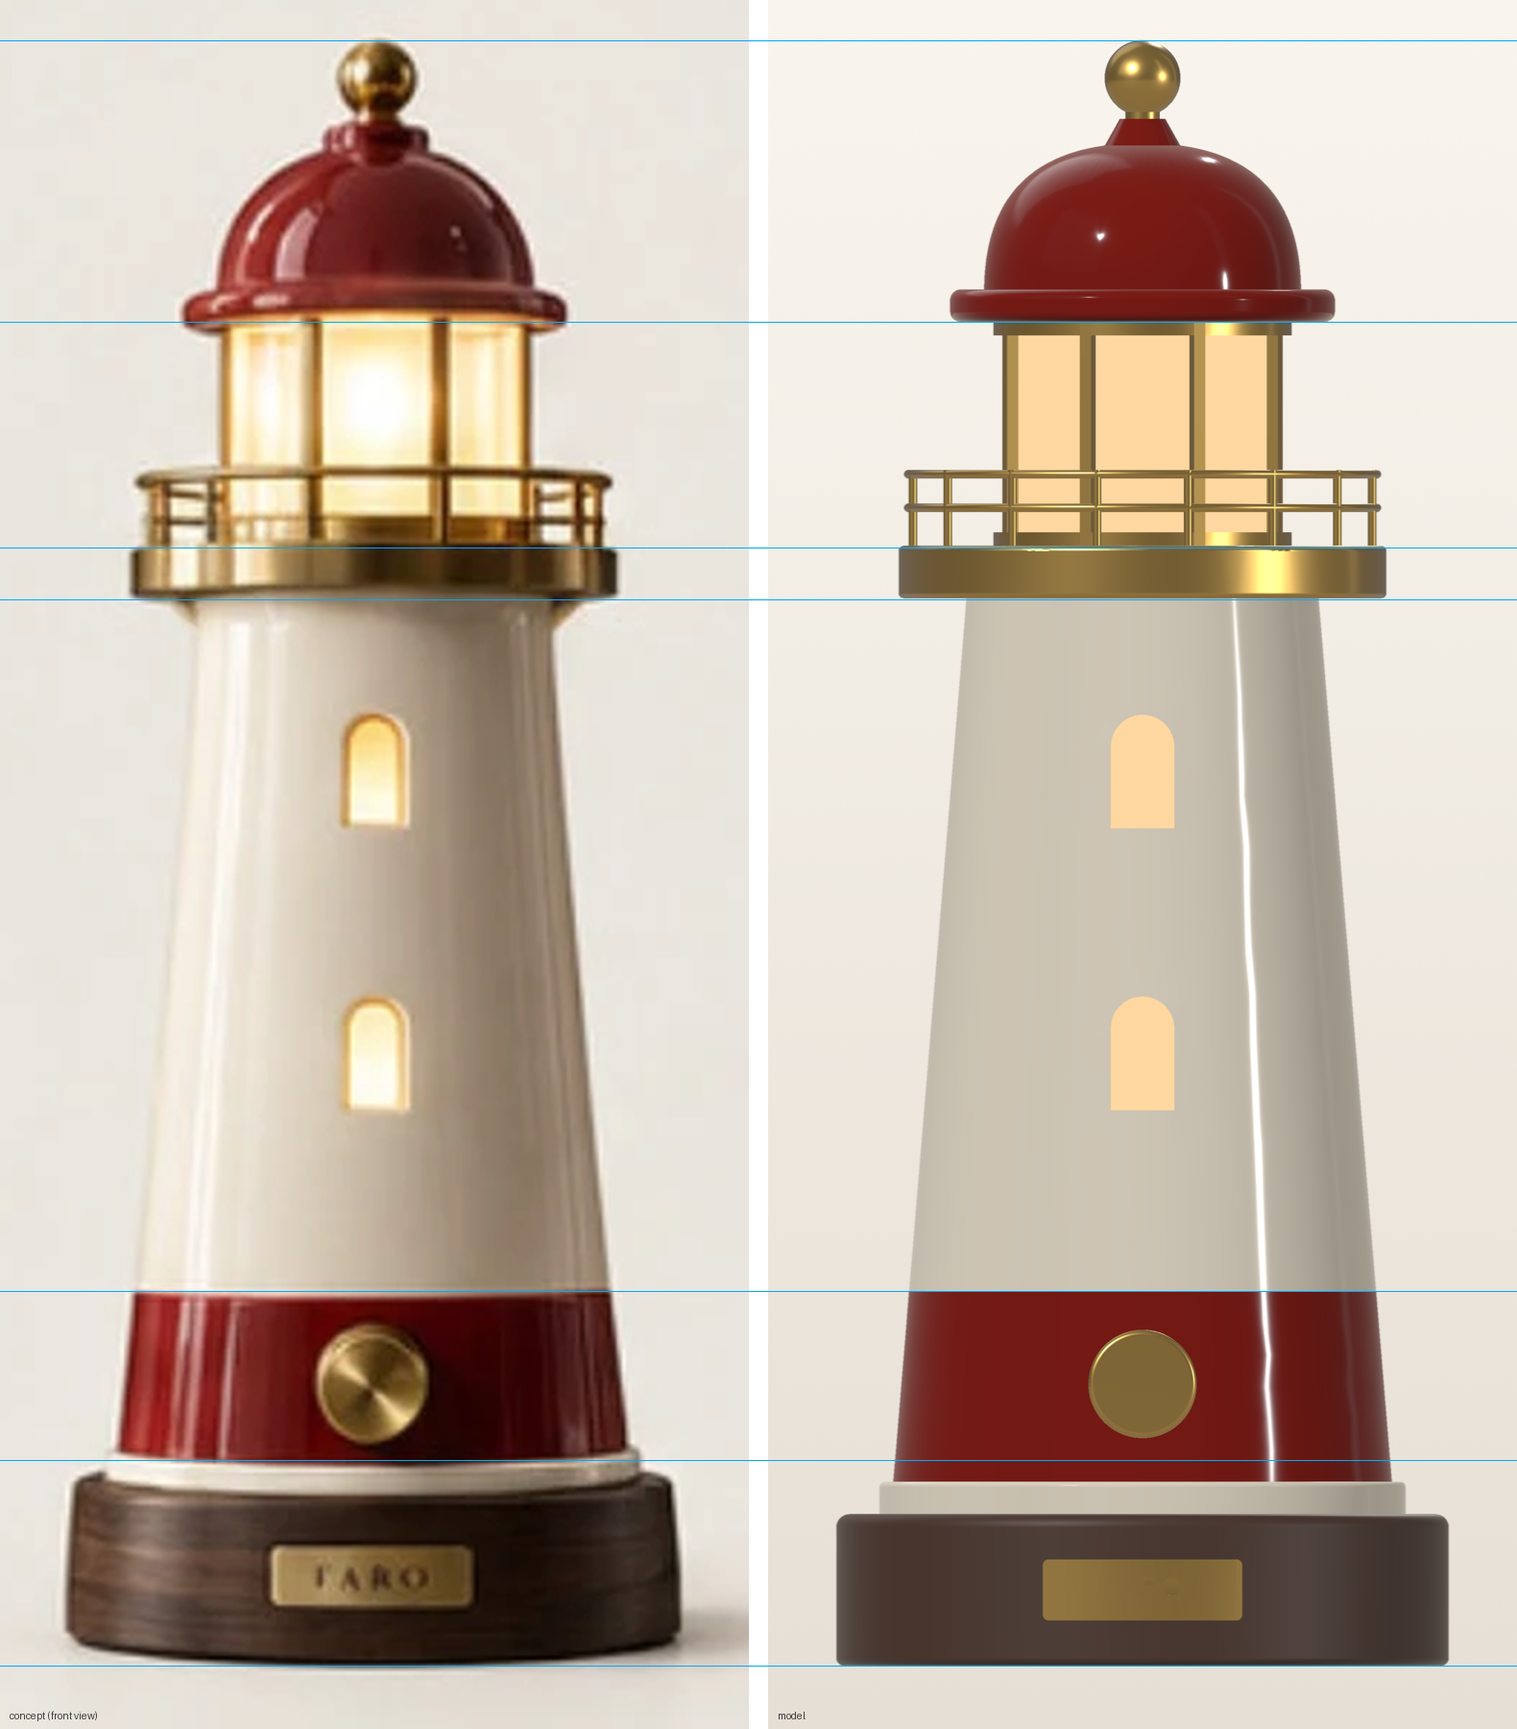
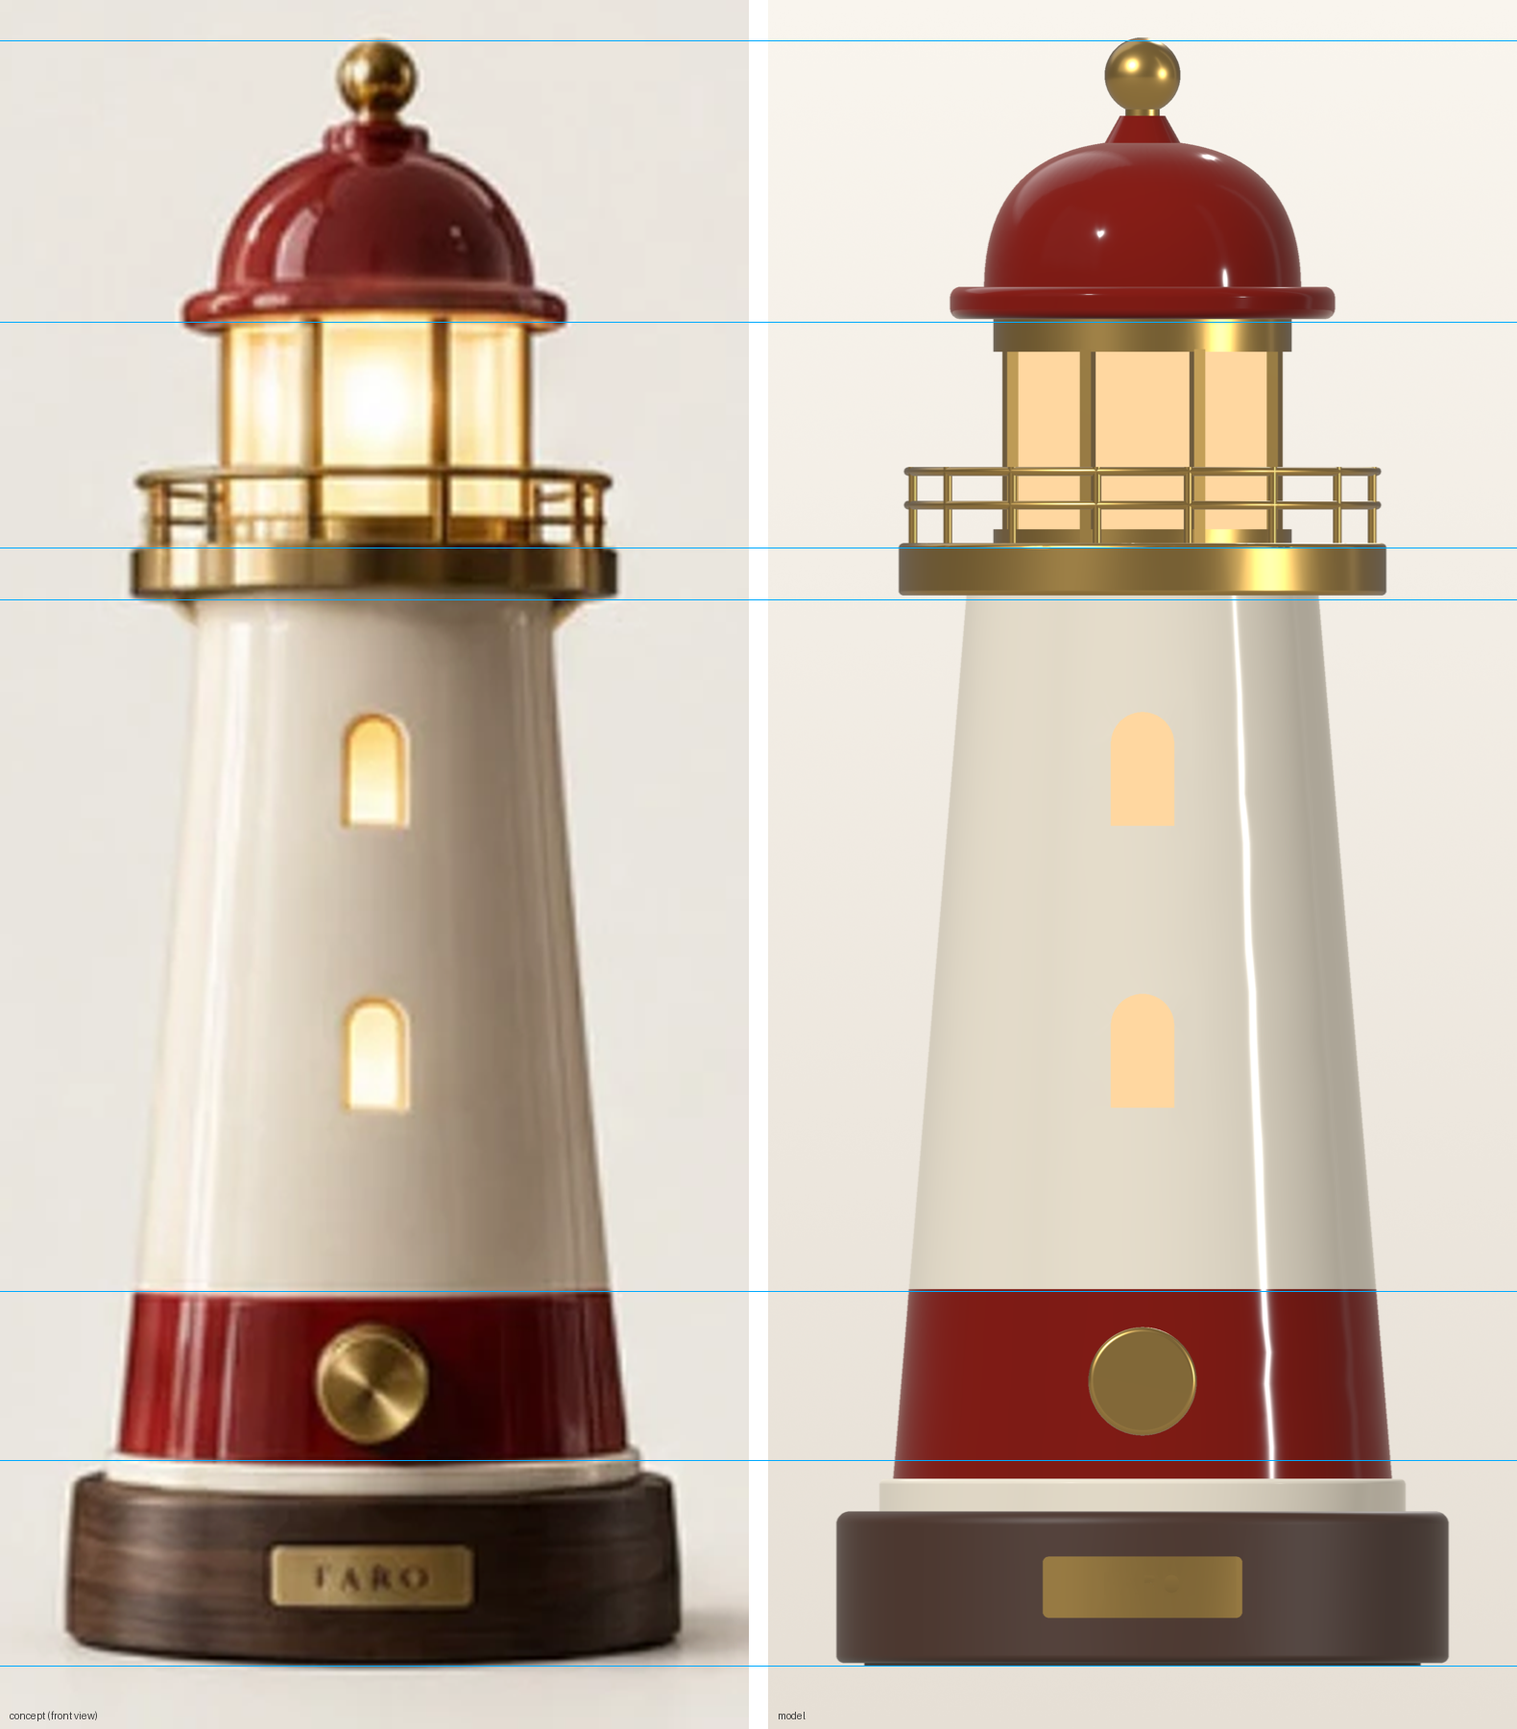
Faro: warm cream matched to the concept; replaceable battery; twist-lock cap
- Cream #F9F2E1 with a slightly brighter Faro studio (LIGHT_GAIN), measured
  against the concept's lit tower (within 1-3 levels per channel)
- Base is an open walnut ring with a flush bottom plate held by 4 M3
  countersunk screws into bosses (threaded inserts); a felt pad on a thin
  steel disc covers them, held by 4 magnets so it lifts off repeatedly.
  Battery rests on the plate, clear of the bosses; wire hole up the tower
- Cap is a 4-lug bayonet: lugs on a spigot pass slots in a lip in the
  lantern's top band, turn 20 deg to a stop. Fit checks: no clash locked,
  lugs pass at entry, 1.6 mm under the lip, 49 mm LED access opening
- Underside render (felt on / felt off)

Claude-Session: https://claude.ai/code/session_01Qkpg3hSMGJCCsE2jenCZsk

diff --git a/faro/lamp.py b/faro/lamp.py
@@ -25,6 +25,7 @@ from build123d import (
     Plane,
     Pos,
     RectangleRounded,
+    RegularPolygon,
     Rectangle,
     Rot,
     SlotOverall,
@@ -92,8 +93,59 @@ def build(p) -> Lamp:
     base = Cylinder(rb, hb, align=MIN)
     base = _safe_fillet(base, base.edges().filter_by(GeomType.CIRCLE).sort_by(Axis.Z)[-1:], p.BASE_TOP_ROUND)
     base = _safe_fillet(base, base.edges().filter_by(GeomType.CIRCLE).sort_by(Axis.Z)[:1], p.BASE_BOTTOM_ROUND)
-    cavity = Pos(0, 0, p.BASE_FLOOR) * Cylinder(rb - p.BASE_WALL, hb - p.BASE_FLOOR - p.BASE_WALL, align=MIN)
-    base = base - cavity
+    # open ring: a rebate at the bottom for the plate, the battery bay above it,
+    # and a hole through the top for the wires up the tower
+    pt = p.PLATE_THICK
+    r_reb = rb - p.PLATE_REBATE
+    r_cav = rb - p.BASE_WALL
+    z_cav_top = hb - p.BASE_WALL
+    base = base - Pos(0, 0, -1) * Cylinder(r_reb, pt + 1, align=MIN)
+    base = base - Pos(0, 0, pt - 0.01) * Cylinder(r_cav, z_cav_top - pt + 0.01, align=MIN)
+    base = base - Pos(0, 0, z_cav_top - 1) * Cylinder(p.BASE_WIRE_HOLE / 2, p.BASE_WALL + 2, align=MIN)
+    # screw bosses hanging from the top of the bay, with holes for M3 inserts
+    screw_xy = []
+    for k in range(p.SCREWS):
+        d = _dir(p.SCREW_ANGLE0 + k * 360 / p.SCREWS)
+        x, y = d.X * p.SCREW_R, d.Y * p.SCREW_R
+        screw_xy.append((x, y))
+        base = base + Pos(x, y, pt) * Cylinder(p.BOSS_DIA / 2, z_cav_top - pt + 0.5, align=MIN)
+        base = base - Pos(x, y, pt - 0.01) * Cylinder(p.BOSS_PILOT_DIA / 2, 10.0, align=MIN)
+
+    # bottom plate: flush in the rebate, 4 countersunk screws, 4 magnet pockets,
+    # and a shallow recess underneath for the felt pad
+    rp = r_reb - p.PLATE_CLEAR
+    plate_b = Cylinder(rp, pt, align=MIN)
+    r_felt = rp - p.FELT_INSET
+    plate_b = plate_b - Pos(0, 0, -1) * Cylinder(r_felt + 0.3, p.FELT_RECESS + 1, align=MIN)
+    z_f = p.FELT_RECESS                                   # recess floor
+    screws = None
+    for x, y in screw_xy:
+        plate_b = plate_b - Pos(x, y, -1) * Cylinder(p.SCREW_CLEAR_DIA / 2, pt + 2, align=MIN)
+        cs = (p.SCREW_HEAD_DIA - p.SCREW_CLEAR_DIA) / 2          # 90 deg countersink depth
+        sink = Pos(x, y, z_f - 0.01) * _revolve([(0, 0), (p.SCREW_HEAD_DIA / 2, 0),
+                                                 (p.SCREW_CLEAR_DIA / 2, cs), (0, cs)])
+        plate_b = plate_b - sink
+        head = Pos(x, y, z_f + 0.05) * _revolve([(0, 0), (p.SCREW_HEAD_DIA / 2 - 0.1, 0),
+                                                 (p.SCREW_CLEAR_DIA / 2 - 0.2, cs - 0.1), (0, cs - 0.1)])
+        shank = Pos(x, y, z_f + cs - 0.2) * Cylinder(1.5, 8.0, align=MIN)
+        head = head - Pos(x, y, z_f - 0.5) * extrude(RegularPolygon(1.0 / math.cos(math.pi / 6), 6), amount=1.8)
+        screws = head + shank if screws is None else screws + head + shank
+    mags = None
+    for k in range(p.MAGNETS):
+        d = _dir(p.SCREW_ANGLE0 + (k + 0.5) * 360 / p.MAGNETS)
+        x, y = d.X * p.SCREW_R, d.Y * p.SCREW_R
+        plate_b = plate_b - Pos(x, y, z_f - 0.01) * Cylinder(p.MAGNET_DIA / 2 + 0.1, p.MAGNET_THICK + 0.1, align=MIN)
+        mg = Pos(x, y, z_f) * Cylinder(p.MAGNET_DIA / 2, p.MAGNET_THICK, align=MIN)
+        mags = mg if mags is None else mags + mg
+    m.parts["base_plate"] = _one(plate_b)
+    felt = Pos(0, 0, z_f - p.FELT_THICK) * Cylinder(r_felt, p.FELT_THICK, align=MIN)
+    m.parts["felt_pad"] = felt
+    m.envelopes["screws"] = screws
+    m.envelopes["magnets"] = mags
+    lift = p.FELT_THICK - p.FELT_RECESS                   # the felt stands proud; it's the foot
+    I.update(felt_proud=lift, battery_bay=(2 * r_cav, z_cav_top - pt),
+             plate_dia=2 * rp, felt_dia=2 * r_felt)
+
     # nameplate: a curved brass plate in a shallow recess on the front
     zn = z_(p.NAMEPLATE_Z)
     plate_outline = Pos(0, 0, zn) * _front_prism(RectangleRounded(p.NAMEPLATE_W, p.NAMEPLATE_H, 1.2))
@@ -115,7 +167,13 @@ def build(p) -> Lamp:
     m.envelopes["usb_receptacle"] = Pos(0, rb - p.BASE_WALL - 4.0, p.USBC_Z) * Box(
         9.5, 7.5, 3.6, align=(Align.CENTER, Align.MIN, Align.CENTER))
     bl, bw, bt = p.BATTERY_SIZE
-    m.envelopes["battery"] = Pos(0, -4, p.BASE_FLOOR + 0.5) * Box(bl, bw, bt, align=MIN)
+    m.envelopes["battery"] = Pos(0, -4, pt + 0.5) * Box(bl, bw, bt, align=MIN)
+    # the battery must fit the bay, clear the bosses, and come out past them
+    bat = m.envelopes["battery"]
+    I["battery_clear"] = dict(bay_height_margin=z_cav_top - pt - 0.5 - bt,
+                              boss_clash=sum((bat & (Pos(x, y, 0) * Cylinder(p.BOSS_DIA / 2, hb, align=MIN))).volume
+                                             if (bat & (Pos(x, y, 0) * Cylinder(p.BOSS_DIA / 2, hb, align=MIN))) is not None
+                                             else 0.0 for x, y in screw_xy))
     m.parts["base"] = _one(base)
     m.parts["nameplate"] = plate
     I.update(base_dia=2 * rb, base_h=hb)
@@ -193,18 +251,35 @@ def build(p) -> Lamp:
     # ---- 5. lantern: brass frame + frosted glass ----------------------------
     z_l0, z_l1 = z_g1, z_(p.LANTERN_TOP_Z)
     hr = p.LANTERN_RING_H
-    ring = lambda za: Pos(0, 0, za) * (Cylinder(rl, hr, align=MIN) - Cylinder(rl - 3.0, hr + 1, align=MIN))
-    frame = ring(z_l0) + ring(z_l1 - hr)
+    tb, lip = p.TOP_BAND_H, p.LIP_H
+    r_lip = rl - 3.0                                   # lip inner radius (the opening under the cap)
+    z_tb = z_l1 - tb                                   # bottom of the top band
+    ann = lambda ro, ri, za, h: Pos(0, 0, za) * (Cylinder(ro, h, align=MIN) - Cylinder(ri, h + 2, align=MIN))
+    frame = ann(rl, rl - 3.0, z_l0, hr)                               # bottom ring
+    frame = frame + ann(rl, p.GROOVE_R, z_tb, tb)                     # top band: outer skin...
+    frame = frame + ann(p.GROOVE_R + 0.01, r_lip, z_l1 - lip, lip)    # ...and the bayonet lip
+    # entry slots through the lip, midway between mullions, and a stop under the
+    # lip LOCK_TURN_DEG further round (the lug turns until it hits it)
+    lug_half = math.degrees(p.LOCK_LUG_W / 2 / r_lip)
+    slot_w = p.LOCK_LUG_W + 2 * p.FIT_CLEAR
+    for k in range(p.LOCK_LUGS):
+        a0 = k * 360 / p.LOCK_LUGS
+        frame = frame - Rot(0, 0, a0) * Pos(0, -(p.GROOVE_R + r_lip) / 2, z_l1 - lip - 0.5) * Box(
+            slot_w, p.GROOVE_R - r_lip + 0.4, lip + 1.0, align=MIN)
+        a_stop = a0 + p.LOCK_TURN_DEG + lug_half + math.degrees(1.0 / r_lip)
+        frame = frame + Rot(0, 0, a_stop) * Pos(0, -(p.GROOVE_R + r_lip) / 2, z_tb) * Box(
+            1.5, p.GROOVE_R - r_lip + 0.2, tb - lip + 0.2, align=MIN)
     for k in range(p.MULLIONS):
         ang = (k + 0.5) * 360 / p.MULLIONS            # a panel (not a mullion) faces the front
         frame = frame + Rot(0, 0, ang) * Pos(0, -(rl - p.MULLION_DEPTH / 2), z_l0) * Box(
-            p.MULLION_W, p.MULLION_DEPTH, z_l1 - z_l0, align=MIN)
+            p.MULLION_W, p.MULLION_DEPTH, z_tb - z_l0 + 0.5, align=MIN)
     m.parts["lantern_frame"] = _one(frame)
     rgl = rl - p.MULLION_DEPTH - 0.1
-    glass = Pos(0, 0, z_l0 + hr) * (Cylinder(rgl, z_l1 - z_l0 - 2 * hr, align=MIN)
+    glass = Pos(0, 0, z_l0 + hr) * (Cylinder(rgl, z_tb - z_l0 - hr, align=MIN)
                                     - Cylinder(rgl - p.GLASS_THICK, z_l1 - z_l0, align=MIN))
     m.parts["lantern_glass"] = _one(glass)
-    m.envelopes["led"] = Pos(0, 0, (z_l0 + z_l1) / 2 - p.LED_H / 2) * Cylinder(p.LED_DIA / 2, p.LED_H, align=MIN)
+    m.envelopes["led"] = Pos(0, 0, (z_l0 + z_tb) / 2 - p.LED_H / 2) * Cylinder(p.LED_DIA / 2, p.LED_H, align=MIN)
+    I.update(led_access_dia=2 * r_lip)
 
     # ---- 6. red cap + brass finial -------------------------------------------
     rcr = d_(p.CAP_RIM_DIA) / 2
@@ -221,12 +296,43 @@ def build(p) -> Lamp:
     rbo = p.CAP_BOSS_DIA / 2
     boss = _revolve([(0, z_d1 - 2.0), (rbo, z_d1 - 2.0), (rbo, z_d1 - 0.5),
                      (rbo * 0.6, z_d1 + p.CAP_BOSS_H), (0, z_d1 + p.CAP_BOSS_H)])
-    cap = rim + dome + boss
+    # bayonet spigot under the cap: a tube that fits inside the lip, with lugs at
+    # its foot that pass the slots and lock under the lip
+    r_sp = r_lip - p.FIT_CLEAR
+    z_lug_top = z_l1 - lip - p.FIT_CLEAR
+    z_sp0 = z_lug_top - p.LOCK_LUG_H
+    spigot = ann(r_sp, r_sp - p.SPIGOT_WALL, z_sp0, z_l1 - z_sp0 + 0.5)
+
+    def lugs(turn):
+        out = None
+        for k in range(p.LOCK_LUGS):
+            lg = Rot(0, 0, k * 360 / p.LOCK_LUGS + turn) * Pos(0, -(r_sp - 0.2), z_sp0) * Box(
+                p.LOCK_LUG_W, p.GROOVE_R - p.FIT_CLEAR - (r_sp - 0.2), p.LOCK_LUG_H,
+                align=(Align.CENTER, Align.MAX, Align.MIN))
+            out = lg if out is None else out + lg
+        return out
+    cap = rim + dome + boss + spigot + lugs(p.LOCK_TURN_DEG)          # modelled locked
     m.parts["cap"] = _one(cap)
+    # fit checks: locked (no clash with the frame, lugs under the lip) and at the
+    # entry angle (lugs pass through the slots)
+    clash = lambda a_, b_: 0.0 if (a_ & b_) is None else (a_ & b_).volume
+    I["bayonet"] = dict(
+        locked_clash=clash(m.parts["cap"], m.parts["lantern_frame"]),
+        entry_clash=clash(lugs(0.0), m.parts["lantern_frame"]),
+        lug_overlap_under_lip=(p.GROOVE_R - p.FIT_CLEAR) - r_lip,
+        led_passes=p.LED_DIA < 2 * (r_sp - p.SPIGOT_WALL))
     rf = p.FINIAL_DIA / 2
     z_top = p.OVERALL_HEIGHT
     finial = Pos(0, 0, z_top - rf) * Sphere(rf) + Pos(0, 0, z_d1 + p.CAP_BOSS_H - 1.0) * Cylinder(
         rf * 0.45, z_top - rf - (z_d1 + p.CAP_BOSS_H - 1.0), align=MIN)
     m.parts["finial"] = _one(finial)
-    I.update(z_gallery=(z_g0, z_g1), z_lantern=(z_l0, z_l1), z_cap_top=z_d1, H=z_top)
+    I.update(z_gallery=(z_g0, z_g1), z_lantern=(z_l0, z_l1), z_cap_top=z_d1)
+    # everything was built with the walnut's underside at z = 0; the felt stands
+    # proud of it, so lift the lot to put the felt on the ground
+    lift = I["felt_proud"]
+    for dct in (m.parts, m.envelopes):
+        for k_ in list(dct):
+            if dct[k_] is not None:
+                dct[k_] = Pos(0, 0, lift) * dct[k_]
+    I["H"] = z_top + lift
     return m

diff --git a/faro/studio.py b/faro/studio.py
@@ -33,6 +33,10 @@ def _material(name, p):
         return dict(color=lin(p.RED_HEX), pbr=True, metallic=0.0, roughness=p.LACQUER_ROUGHNESS), True
     if name in CREAM:
         return dict(color=lin(p.CREAM_HEX), pbr=True, metallic=0.0, roughness=p.LACQUER_ROUGHNESS), True
+    if name == "felt_pad":
+        return dict(color=lin("#2F2D2B"), pbr=True, metallic=0.0, roughness=1.0), False
+    if name == "base_plate":
+        return dict(color=lin("#4A4541"), pbr=True, metallic=0.0, roughness=0.6), False
     if name == "base":
         return dict(color=lin(p.WALNUT_HEX), pbr=True, metallic=0.0, roughness=p.WALNUT_ROUGHNESS), False
     return dict(color=(0.5, 0.5, 0.5)), False
@@ -51,7 +55,7 @@ def _shadow(pl, m):
     pl.add_mesh(grid, scalars="rgba", rgba=True, lighting=False, show_scalar_bar=False)
 
 
-def plotter(m, p, size, shadow=True):
+def plotter(m, p, size, shadow=True, hide=(), extra=()):
     pl = pv.Plotter(off_screen=True, window_size=list(size), lighting="none")
     pl.set_background(atelier.BACKDROP, top=atelier.BACKDROP_TOP)
     if not atelier.FAST:
@@ -64,8 +68,10 @@ def plotter(m, p, size, shadow=True):
     pl.renderer.SetEnvironmentRight(1, 0, 0)
     for pos, k in (((-500, -700, 700), atelier.LIGHT_KEY), ((700, -350, 250), atelier.LIGHT_FILL),
                    ((150, 800, 600), atelier.LIGHT_RIM)):
-        pl.add_light(pv.Light(position=pos, focal_point=(0, 0, 150), intensity=k))
+        pl.add_light(pv.Light(position=pos, focal_point=(0, 0, 150), intensity=k * p.LIGHT_GAIN))
     for name, shape in m.parts.items():
+        if name in hide:
+            continue
         style, coat = _material(name, p)
         actor = pl.add_mesh(atelier._to_mesh(shape), smooth_shading=True, **style)
         if coat:
@@ -77,9 +83,43 @@ def plotter(m, p, size, shadow=True):
     if "usb_receptacle" in m.envelopes:           # dark metal seen through the port
         pl.add_mesh(atelier._to_mesh(m.envelopes["usb_receptacle"], 0.05), color=(0.08, 0.08, 0.09),
                     pbr=True, metallic=0.8, roughness=0.4)
+    finish = {"screws": ("#8E9095", 0.35), "magnets": ("#E2E2E4", 0.15)}   # steel / bright nickel
+    for key in extra:                               # e.g. screws and magnets
+        if m.envelopes.get(key) is not None:
+            col, rough = finish.get(key, ("#9A9CA0", 0.35))
+            pl.add_mesh(atelier._to_mesh(m.envelopes[key], 0.02), color=atelier.hex_linear(col),
+                        pbr=True, metallic=1.0, roughness=rough)
     if shadow:
         _shadow(pl, m)
     return pl
+
+
+def render_underside(m, p, path, size=(1100, 900)):
+    """Two views up at the base: as sold (felt on) and with the felt lifted off
+    (the plate, its 4 screws and 4 magnets)."""
+    from PIL import Image, ImageDraw
+    imgs = []
+    for hide, extra in (((), ()), (("felt_pad",), ("screws", "magnets"))):
+        pl = plotter(m, p, size, shadow=False, hide=hide, extra=extra)
+        d = np.array([0.30, -0.45, -1.0])
+        d /= np.linalg.norm(d)
+        focal = np.array([0.0, 0.0, 12.0])
+        pl.camera.position = tuple(focal + d * 330)
+        pl.camera.focal_point = tuple(focal)
+        pl.camera.up = (0, 1, 0)
+        pl.camera.view_angle = 24
+        pl.reset_camera_clipping_range()
+        imgs.append(Image.fromarray(pl.screenshot(return_img=True)))
+        pl.close()
+    sheet = Image.new("RGB", (size[0] * 2 + 20, size[1]), (255, 255, 255))
+    for i, im in enumerate(imgs):
+        sheet.paste(im, (i * (size[0] + 20), 0))
+    dr = ImageDraw.Draw(sheet)
+    dr.text((20, 20), "underside, as sold (felt pad on)", fill=(40, 40, 40))
+    dr.text((size[0] + 40, 20), "felt pad lifted off: 4 screws (hex socket) hold the plate; 4 magnets (bright) hold the felt",
+            fill=(40, 40, 40))
+    sheet.save(path)
+    return path
 
 
 def render_views(m, p, out_dir: Path, views=("front", "side"), prefix="faro"):

diff --git a/faro/params.py b/faro/params.py
@@ -23,7 +23,27 @@ BASE_H = 28.0
 BASE_TOP_ROUND = 2.5         # rounding on the top edge
 BASE_BOTTOM_ROUND = 1.5
 BASE_WALL = 4.0              # hollow base: side wall / top thickness
-BASE_FLOOR = 3.0             # bottom plate (felt pad goes under it)
+BASE_WIRE_HOLE = 20.0        # hole through the base top for the wiring up the tower
+# User-replaceable battery: the walnut base is an open ring; a bottom plate sits
+# flush in a rebate and screws into 4 bosses inside the base. A felt pad covers
+# the screws: felt laminated to a thin steel disc, held by 4 magnets in the plate,
+# so it lifts off and goes back as often as needed.
+PLATE_THICK = 3.0
+PLATE_REBATE = 2.0           # walnut skin left outside the plate's rebate
+PLATE_CLEAR = 0.2
+SCREWS = 4                   # M3 countersunk (M3 brass threaded inserts in the walnut bosses)
+SCREW_R = 40.0               # screw circle radius
+SCREW_ANGLE0 = 45.0          # first screw angle (clears the battery)
+SCREW_CLEAR_DIA = 3.4
+SCREW_HEAD_DIA = 6.4
+BOSS_DIA = 8.0
+BOSS_PILOT_DIA = 4.0         # for an M3 heat-set/threaded insert
+MAGNETS = 4                  # between the screws
+MAGNET_DIA = 6.0
+MAGNET_THICK = 1.5
+FELT_THICK = 1.5             # felt + 0.4 mm steel backing
+FELT_RECESS = 1.0            # recess in the plate's underside; the felt stands proud by the rest
+FELT_INSET = 3.0             # felt edge inside the plate edge
 NAMEPLATE_W = 37.0
 NAMEPLATE_H = 11.5
 NAMEPLATE_Z = 14.0           # centre height on the base front
@@ -79,7 +99,19 @@ LANTERN_TOP_Z = 248.0        # the lantern runs from the gallery top to here
 MULLIONS = 8                 # a panel faces straight to the front
 MULLION_W = 2.2
 MULLION_DEPTH = 2.2
-LANTERN_RING_H = 2.5         # brass rings at the lantern's top and bottom
+LANTERN_RING_H = 2.5         # brass ring at the lantern's bottom
+# Removable cap (bayonet / twist-lock). The lantern's top band has an inner lip
+# with slots; lugs on a spigot under the cap drop through, then turn under the
+# lip until they hit a stop. Take the cap off to reach the LED module.
+TOP_BAND_H = 6.0             # brass band at the lantern's top (holds the bayonet)
+LIP_H = 2.5                  # the lip the lugs lock under
+GROOVE_R = 26.3              # lug channel radius under the lip
+LOCK_LUGS = 4                # multiple of the mullion spacing, so slots sit mid-panel
+LOCK_LUG_W = 6.0
+LOCK_LUG_H = 2.6
+LOCK_TURN_DEG = 20.0         # quarter-ish turn to lock
+SPIGOT_WALL = 1.5
+FIT_CLEAR = 0.2
 GLASS_THICK = 1.2            # frosted panel ring, just inside the mullions
 
 # ---------------------------------------------------------------------------
@@ -108,11 +140,12 @@ LED_H = 12.0
 # ---------------------------------------------------------------------------
 RED_HEX = "#8A1C15"          # same as Atelier
 BRASS_HEX = "#C4A15A"        # same as Atelier
-CREAM_HEX = "#F4ECDC"        # warm cream lacquer
+CREAM_HEX = "#F9F2E1"        # warm cream lacquer (matched to the concept's lit tower)
 WALNUT_HEX = "#4A2F20"       # dark walnut
 GLOW_HEX = "#FFD7A0"         # lit frosted panels
 LACQUER_ROUGHNESS = 0.12
 LACQUER_CLEARCOAT = 0.9
 BRASS_ROUGHNESS = 0.35
 WALNUT_ROUGHNESS = 0.55
+LIGHT_GAIN = 1.27            # Faro's studio is a touch brighter than Atelier's
 RENDER_SIZE = (1200, 1600)

diff --git a/faro/build.py b/faro/build.py
@@ -26,6 +26,7 @@ def main():
     t0 = time.time()
     m = lamp.build(p)
     files = studio.render_views(m, p, OUT / "draft", views=("front", "side"))
+    files.append(studio.render_underside(m, p, OUT / "draft" / "faro_underside.png"))
     print(f"Draft done in {time.time() - t0:.0f} s:", *files, sep="\n  ")
 
 
